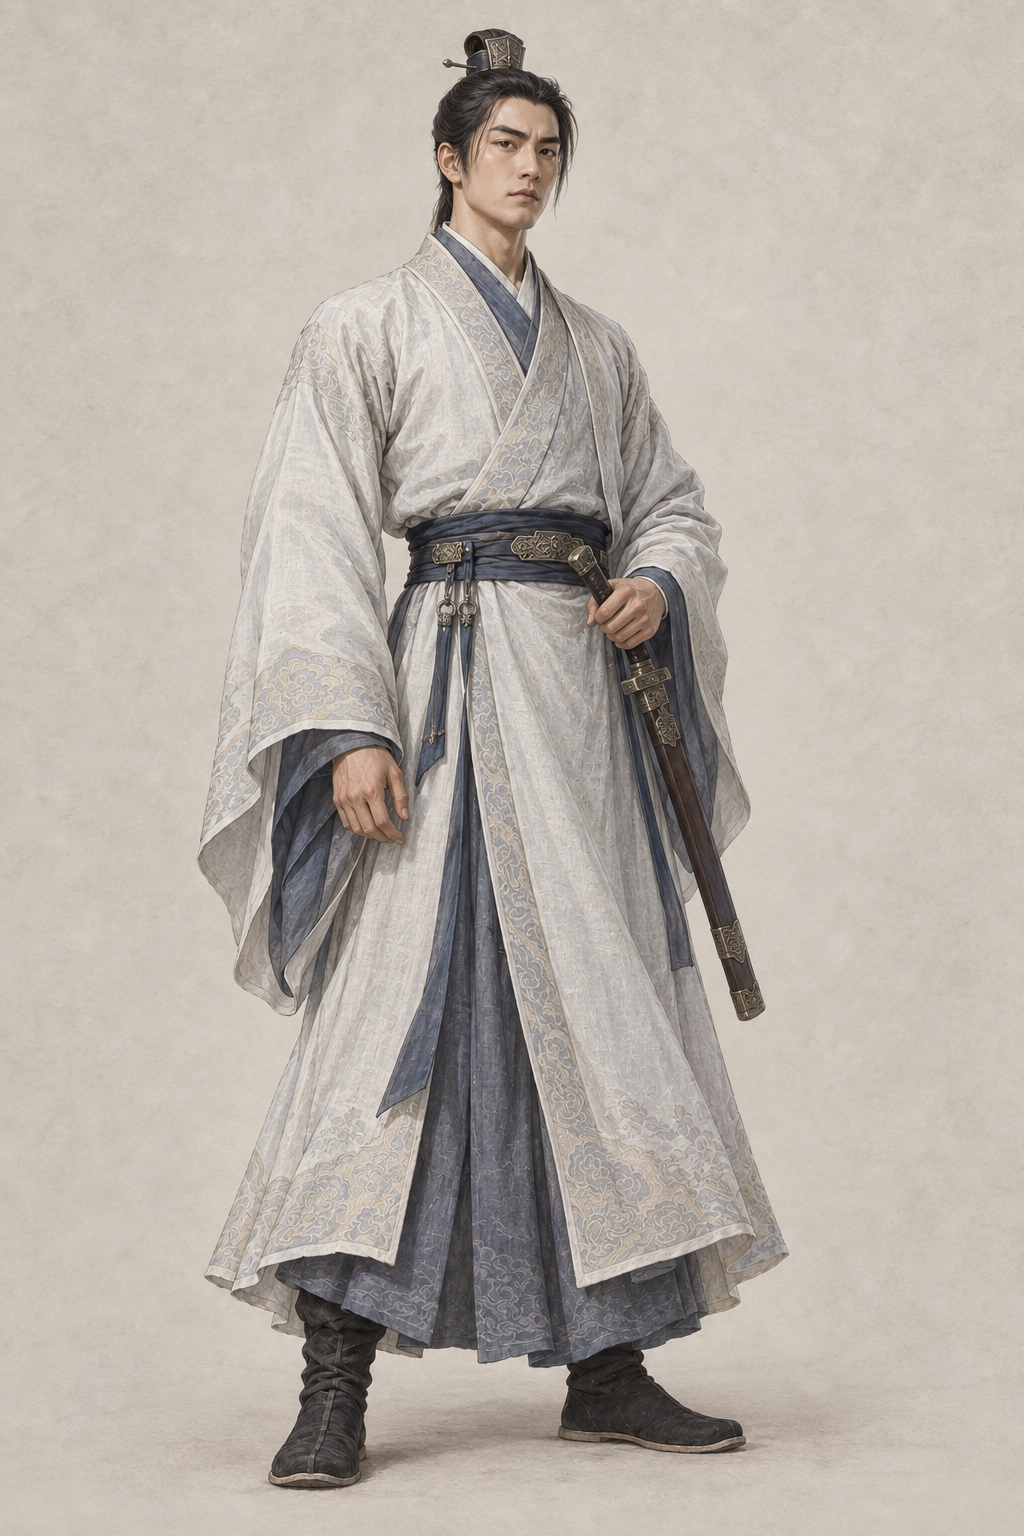
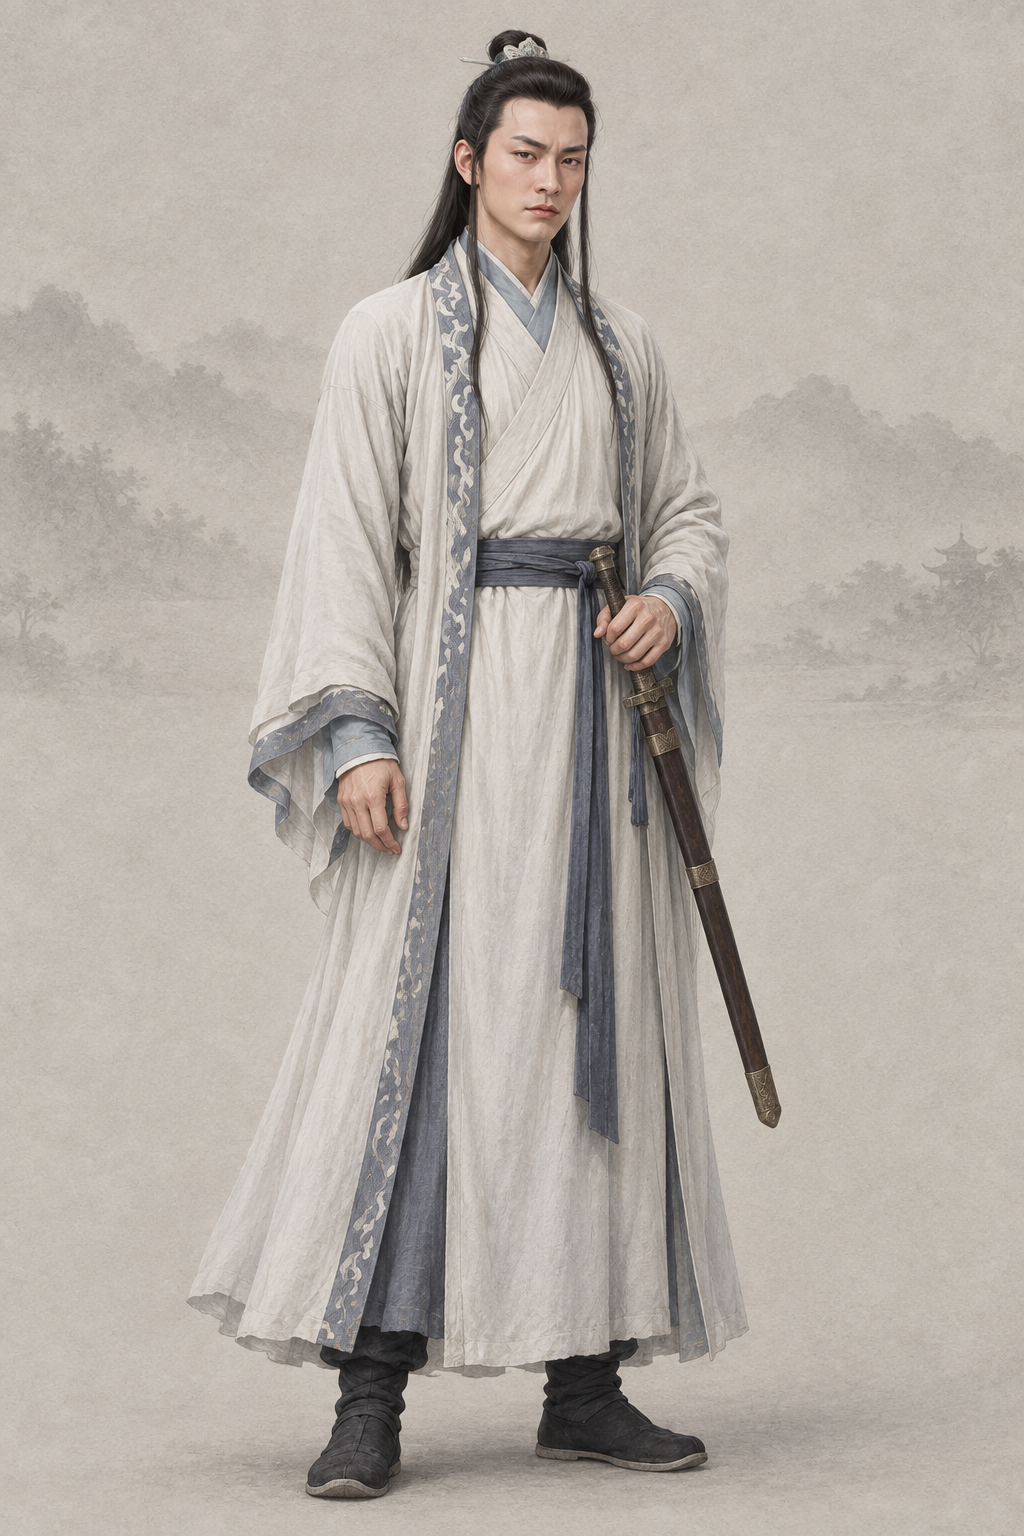
assets(character): por_npc_murongfu__ch01_prime_jiazhu_base 慕容复（codex · AR-32 经典剧照 + 基线）
参考 2003 央视《天龙八部》 剧照（murongfu_2003_xiuqing_sina2022a.jpg、murongfu_2003_xiuqing_sina2022b.jpg）与两张同性别基线重出；提示词写回、frontmatter 加 classic_ref。

diff --git a/assets/default/prompts/characters/ch01-tianlong/npc_murongfu.md b/assets/default/prompts/characters/ch01-tianlong/npc_murongfu.md
@@ -12,9 +12,48 @@ references:
 - path: assets/default/baseline/character/male/ref_npc_xiaofeng__ch01_base01.png
   use: 仅取画法、纸底、柔光、笔触和设色，不继承参考角色面容、年龄体型、发式、衣装或道具。实际manifest状态candidate；作者本轮明确指定男女现有基线用于生产，审批状态保留不变。SHA-256 c9f87f225636e3f8166717f1b0c8ccaf13c319210fdc6069e09289e96632fd89
 status: ready
+reference_upload:
+- .agents/coord/imagegen-reference/identity-20261002/tianlong/murongfu_2003_xiuqing_sina2022a.jpg
+- .agents/coord/imagegen-reference/identity-20261002/tianlong/murongfu_2003_xiuqing_sina2022b.jpg
+- assets/default/baseline/character/male/ref_npc_linghuchong__ch05_base01.png
+- assets/default/baseline/character/male/ref_npc_xiaofeng__ch01_base01.png
+classic_ref:
+  version: 2003 央视《天龙八部》
+  stills:
+  - .agents/coord/imagegen-reference/identity-20261002/tianlong/murongfu_2003_xiuqing_sina2022a.jpg
+  - .agents/coord/imagegen-reference/identity-20261002/tianlong/murongfu_2003_xiuqing_sina2022b.jpg
+  crop:
+    murongfu_2003_xiuqing_sina2022b.jpg:
+    - 330
+    - 0
+    - 700
+    - 348
 ---
 
 # 慕容复 · 《天龙八部》（ch01）
+
+## Gemini 提示词
+
+> 2026-10-02 AR-32 重出（5 号出图员，codex exec · image_gen）：主要角色改为参考经典影视版剧照加项目基线生成。上传顺序：2003 央视《天龙八部》 剧照 2 张（murongfu_2003_xiuqing_sina2022a.jpg、murongfu_2003_xiuqing_sina2022b.jpg），最后两张为同性别画风基线（缩小版 JPEG）。剧照只借造型、气质与面部特征，画面按项目画风重绘、不复制照片。本文件此前没有「Gemini 提示词」段，下文原有的「提示词」等段保留作历史，不再用于出图。
+
+```text
+生成一张 2:3 竖幅全身人物立绘：单人、单一视角、完整全身——头顶、双手、双脚和手中器物的两端都在画面内，四周留出自然空白；人物站姿自然，身体基本朝向正面，头部端正（不歪头、不仰不俯），镜头平视。
+【画风】写实手绘古风人物插画，与本项目写实武侠角色立绘同一画风，像功力深厚的画师用细腻笔触画出的真实人物。手绘插画质感，不是 CG 渲染：不要过度光滑的皮肤、完美对称的五官、塑料高光、过度锐利的发丝；保留自然的笔触和细微不完美。皮肤有真实质感——细小毛孔、细纹、晒痕和自然的左右不对称，不磨皮、不油亮；头发是一缕缕自然的发丝和少量碎发；布料看得出经纬纹理、厚薄和自然垂坠的褶皱，带穿用过的轻微旧化，但完整不破烂；整体设色低饱和、沉稳；柔和的自然光从左上方照来，明暗过渡自然，不打舞台光、轮廓光或美颜柔光。不是照片，不是三维渲染，不是动漫或游戏 CG，也不是油画（没有厚涂笔触和画布纹理）。
+【背景】不透明的暖浅灰色纸底，只在远处有极淡的水墨远山和薄雾，大面积留白；人物与背景明暗分明、轮廓边缘干净完整（后续要自动抠图），水墨和纸纹只在背景里，不侵入人物和衣服；脚下只有很淡的一点接触阴影。
+【人物】慕容复，《天龙八部》北宋（约 1093 年）姑苏慕容氏的少主、燕子坞主人，「北乔峰、南慕容」里的南慕容；江南至少室山时期的本来面目（没有易容成李延宗，也未到结局失常）。风度翩翩、潇洒闲雅的世家公子，心怀复兴大燕的执念，傲气而自持。
+【年龄与体态】约二十七八岁的青年男子，身材修长挺拔、肩背笔直（约 7.5 头身），比萧峰清瘦，举止端雅。
+【经典造型】以新世纪初经典大陆剧里那位慕容复为蓝本（见剧照）：剑眉星目、气宇轩昂的俊雅面孔，眉宇间带着傲气与隐隐的阴郁；黑发半束、头顶戴一枚小巧的素冠，其余长发垂在背后，鬓边几缕长发；一身浅色江南长衫、衣缘有深色暗纹镶边；腰悬长剑；风流婉约的贵公子气度。
+【面容】修长的方脸、颧骨不高，剑眉整齐上扬，一双星目明亮而深沉、目光里有不易察觉的紧绷与算计；鼻梁挺直，薄唇轮廓清楚，下颌收紧；肤色白净而有真实肤质，没有胡须。英俊潇洒、温文尔雅的美男子，俊而不阴柔。
+【发式】黑发上半部分束成发髻、戴一枚小巧的白玉素冠，其余长发顺垂在背后，鬓边留两缕长发。
+【服饰】浅月白色交领右衽长衫（江南细布，衣缘镶一道深青色暗纹边），烟青内衫，窄深蓝腰带，黑色薄底靴；衣饰考究而克制，没有帝王纹样。
+【道具】左腰悬一柄普通中式直身长剑，完整入鞘（小横剑格、长木鞘、短系带连到腰带）；左手松松按在剑鞘口、不拔剑，右手自然垂在身侧。
+【姿态与神情】身体端正、微微侧身，下颌微抬；神情从容有礼，眼神里却透着傲气与紧绷。
+【不要】画面里不要任何文字、题款、印章、签名、水印、边框、分格或多视图；不要第二个人；不要幼态（童颜、娃娃脸、婴儿肥、儿童或少年身材、大头小身）；不要塑料感皮肤、磨皮美颜、网红脸（尖下巴大眼高鼻的模板脸）、过度对称、浓妆、偶像式打光、蜡像感；不要照片质感、三维渲染或动漫大眼；不要歪头、斜镜头；不要多指、缺指（设定的伤残除外）、手与器物粘连或悬空；汉式交领必须右衽（穿着者的左襟压在右襟上），不要左衽（设定为少数民族服制的除外），不要水平镜像；不要现代物品、发光特效、法阵或能量光。不要帝冠龙袍、皇位宝座、乞丐纸冠或疯癫姿态（未到结局）；不要李延宗的易容异装、满脸胡须；不要折扇代替剑；不要古代鲜卑重甲；不要发光兵器或剑气特效；不要阴柔脂粉气或高帽。
+【参考图】随提示词上传的参考图共 4 张，按顺序：第 1、2 张是这个角色经典影视造型的剧照：借鉴其发型、服饰、配色、标志道具、气质和面部特征，让人一眼认出是这个角色；但必须重新绘制成本项目的画风，不要照片质感，不要照搬剧照的构图、光影、背景和姿势，也不要做成照片修图；剧照与上文文字有出入时，以上文文字为准。最后两张是本项目的立绘画风基线：画风、用色、光线、质感和暖浅灰纸底加淡水墨的背景以它们为准——精细写实的数字手绘插画，不是油画，不要厚涂笔触和画布纹理；基线图里人物的长相、年龄、发型、服饰和姿势一律不取。
+```
+
+---
+
 
 ## 人物要点
 
